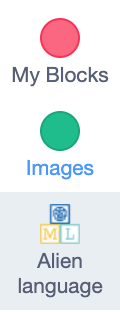
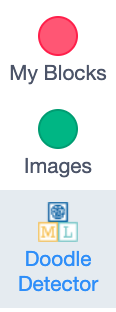
Update 5

diff --git a/en/step_5.md b/en/step_5.md
@@ -1,6 +1,6 @@
 ## Create a canvas
 
-Now that your model can distinguish between words, you can use it in a Scratch program to control an alien.
+Now that your model can distinguish between drawings, you can use it in a Scratch program.
 
 --- task ---
 + Click on the **< Back to project** link.
@@ -13,13 +13,7 @@ Now that your model can distinguish between words, you can use it in a Scratch p
 
 --- /task ---
 
---- task ---
-+ Click on **Project templates** at the top and select the 'Alien language' project to load the alien sprite which has some code already added to it. 
-
-![Alien language project](images/alien-language.png)
---- /task ---
-
-Machine Learning for Kids has added some special blocks to Scratch to allow you to use the model you just trained. This project template also contains special 'walk left' and 'walk right' blocks inside "My Blocks". Find both at the bottom of the blocks list.
+Machine Learning for Kids has added some special blocks to Scratch to allow you to use the model you just trained. Find them at the bottom of the blocks list.
 
 ![New blocks](images/new-blocks.png)
 

diff --git a/en/step_4.md b/en/step_4.md
@@ -17,18 +17,15 @@ Once the training has finished, you can test how well your model recognises draw
 
 --- task ---
 
-+ Click the **Test by drawing** button, then draw a picture of a banana. 
++ Click the **Test by drawing** button, then draw a picture of an apple. 
 
 Your machine learning model will display what it thinks you drew.
-![Arrow pointing to the test by drawingtest button](images/test-your-model.png)
+![Arrow pointing to the test by drawing button](images/test-your-model.png)
 
 --- /task ---
 
 --- task ---
-+ Test whether the model recognises a drawing of an apple as well.
-
-![Arrow pointing to the test by drawingtest button](images/test-your-model.png)
-
++ Test whether the model recognises a drawing of a banana as well.
 --- /task ---
 
 If you are not happy with how the model is working, go back to the **Train** page and add more examples, then train your model again.
